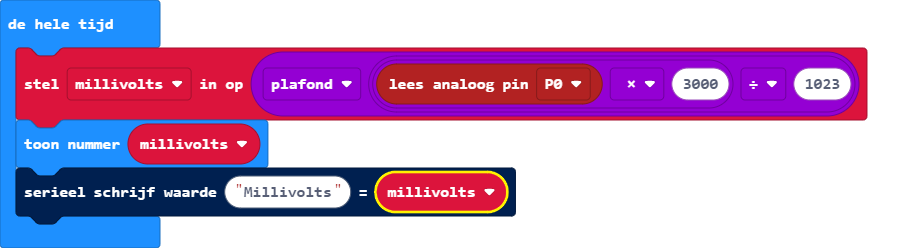
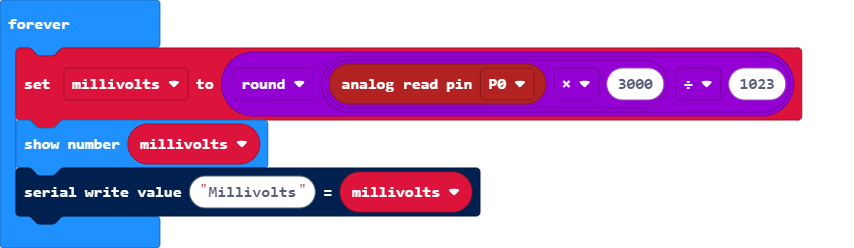
ceiling to round

diff --git a/main.ts b/main.ts
@@ -1,6 +1,6 @@
 let millivolts = 0
 basic.forever(function () {
-    millivolts = Math.ceil(pins.analogReadPin(AnalogPin.P0) * 3000 / 1023)
+    millivolts = Math.round(pins.analogReadPin(AnalogPin.P0) * 3000 / 1023)
     basic.showNumber(millivolts)
     serial.writeValue("Millivolts", millivolts)
 })
